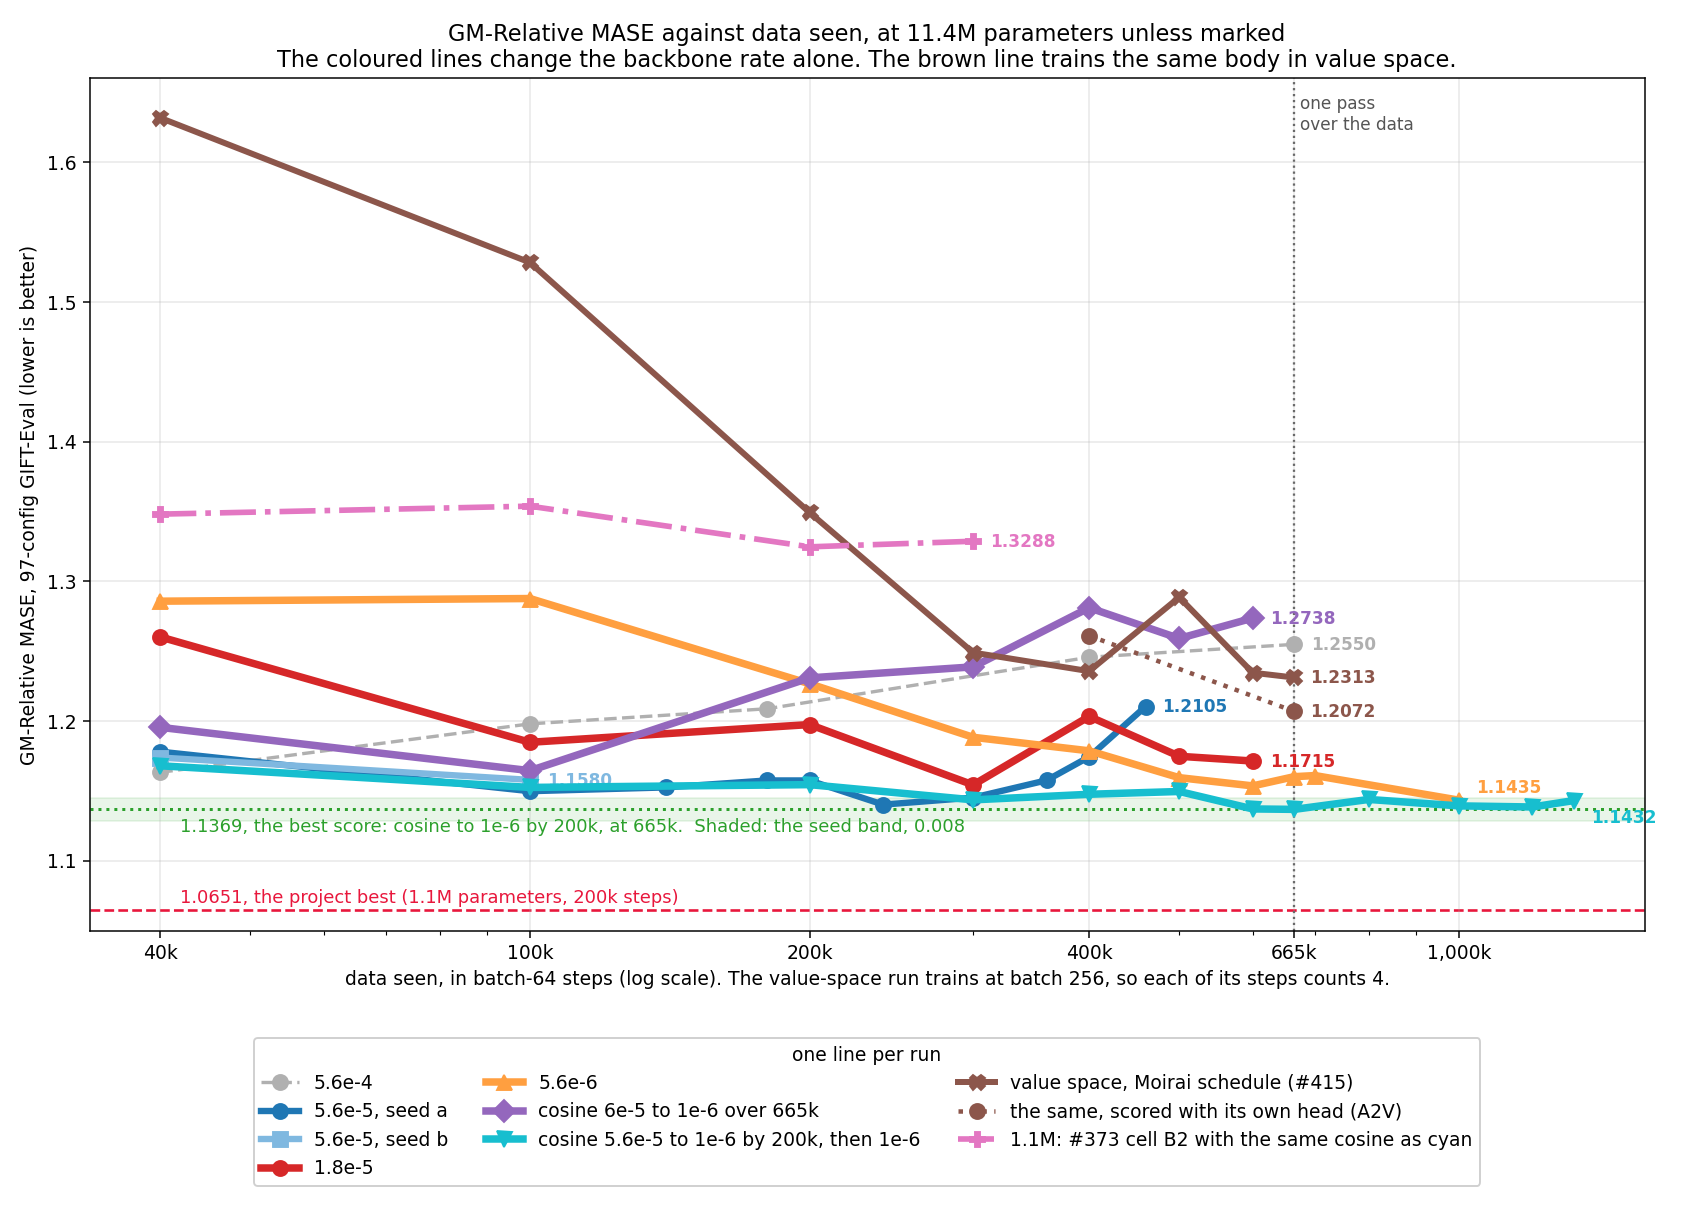
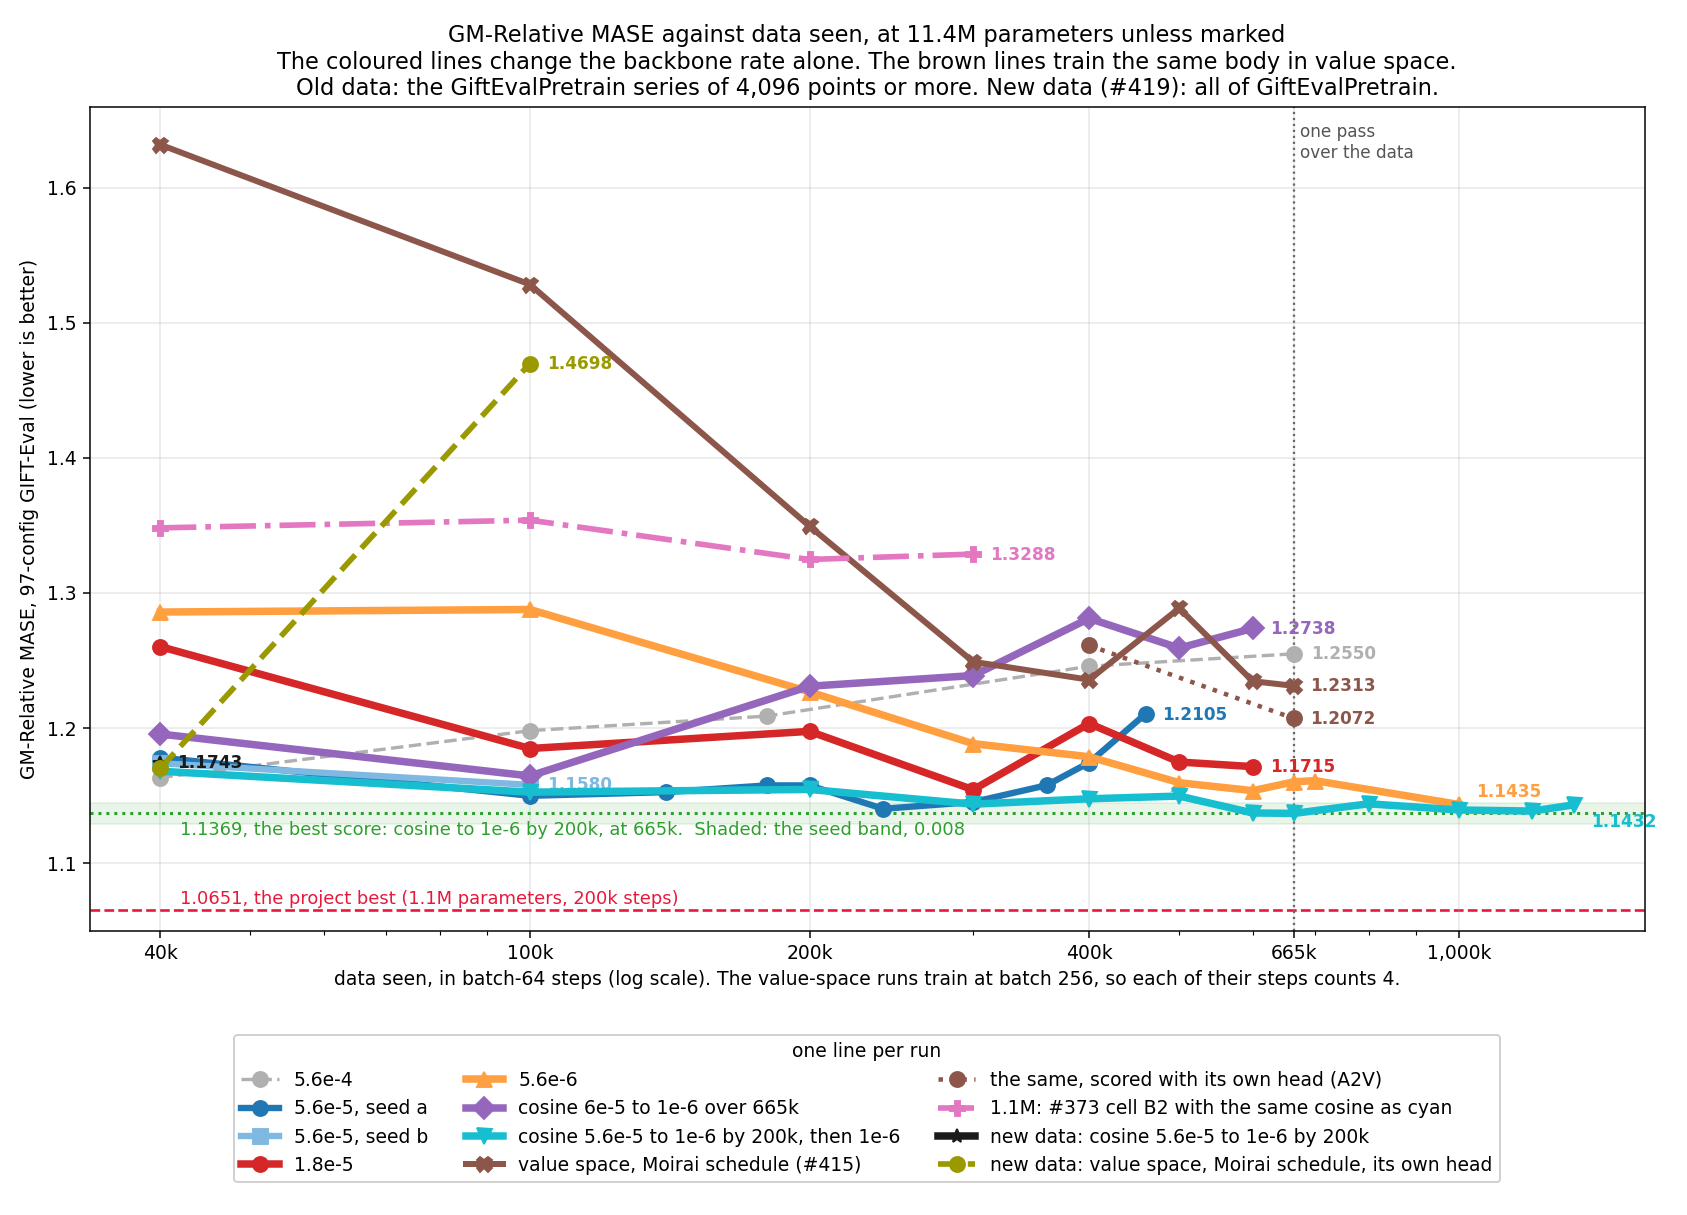
exp(#419): the curves show the two runs on all of GiftEvalPretrain
cos200k on the new data (1.1743 at 40k) and Moirai on the new data,
native (1.1702 at 10k, 1.4698 at 25k).

diff --git a/reports/2026-09-06_moirai_small_size/scripts/plot_gm_rates.py b/reports/2026-09-06_moirai_small_size/scripts/plot_gm_rates.py
@@ -1,5 +1,6 @@
 """GM-Relative MASE against data seen: each backbone rate, the two cosine
-anneals, and the value-space reference of #415. Reads
+anneals, the value-space reference of #415, and the #419 runs on all of
+GiftEvalPretrain. Reads
 results/gm_trajectories.tsv (scripts/gm_trajectories.py writes it)."""
 from collections import defaultdict
 from pathlib import Path
@@ -25,10 +26,12 @@ SERIES = [
     ("cf415_moirai",  "value space, Moirai schedule (#415)", "#8c564b", 3.2, "X", "-"),
     ("cf415_moirai_native", "the same, scored with its own head (A2V)", "#8c564b", 2.4, "o", ":"),
     ("b2cos",         "1.1M: #373 cell B2 with the same cosine as cyan", "#e377c2", 3.0, "P", "-."),
+    ("cf419_cos200k", "new data: cosine 5.6e-5 to 1e-6 by 200k", "#1a1a1a", 4.0, "*", "-"),
+    ("cf419_moirai_native", "new data: value space, Moirai schedule, its own head", "#9a9a00", 3.0, "o", "--"),
 ]
-# The value-space run trains at batch 256: one of its steps holds the data of
-# four batch-64 steps.
-XSCALE = {"cf415_moirai": 4, "cf415_moirai_native": 4}
+# The value-space runs train at batch 256: one of their steps holds the data
+# of four batch-64 steps.
+XSCALE = {"cf415_moirai": 4, "cf415_moirai_native": 4, "cf419_moirai_native": 4}
 # Where the last score of a line prints, so two lines that end together part.
 END_LABEL_OFFSET = {P + "_lr100x": (9, 4), P + "_cos200k": (9, -12)}
 BEST, BAND, PROJECT_BEST = 1.1369, 0.008, 1.0651
@@ -90,11 +93,13 @@ def main():
     ax.set_xticks(ticks)
     ax.set_xticklabels(["40k", "100k", "200k", "400k", "665k", "1,000k"])
     ax.set_xlabel("data seen, in batch-64 steps (log scale). The value-space "
-                  "run trains at batch 256, so each of its steps counts 4.")
+                  "runs train at batch 256, so each of their steps counts 4.")
     ax.set_ylabel("GM-Relative MASE, 97-config GIFT-Eval (lower is better)")
     ax.set_title("GM-Relative MASE against data seen, at 11.4M parameters unless marked\n"
-                 "The coloured lines change the backbone rate alone. The brown line "
-                 "trains the same body in value space.")
+                 "The coloured lines change the backbone rate alone. The brown lines "
+                 "train the same body in value space.\n"
+                 "Old data: the GiftEvalPretrain series of 4,096 points or more. "
+                 "New data (#419): all of GiftEvalPretrain.")
     ax.grid(alpha=0.3)
     ax.set_ylim(YMIN, YMAX)
     ax.legend(fontsize=10, loc="upper center", bbox_to_anchor=(0.5, -0.115),
